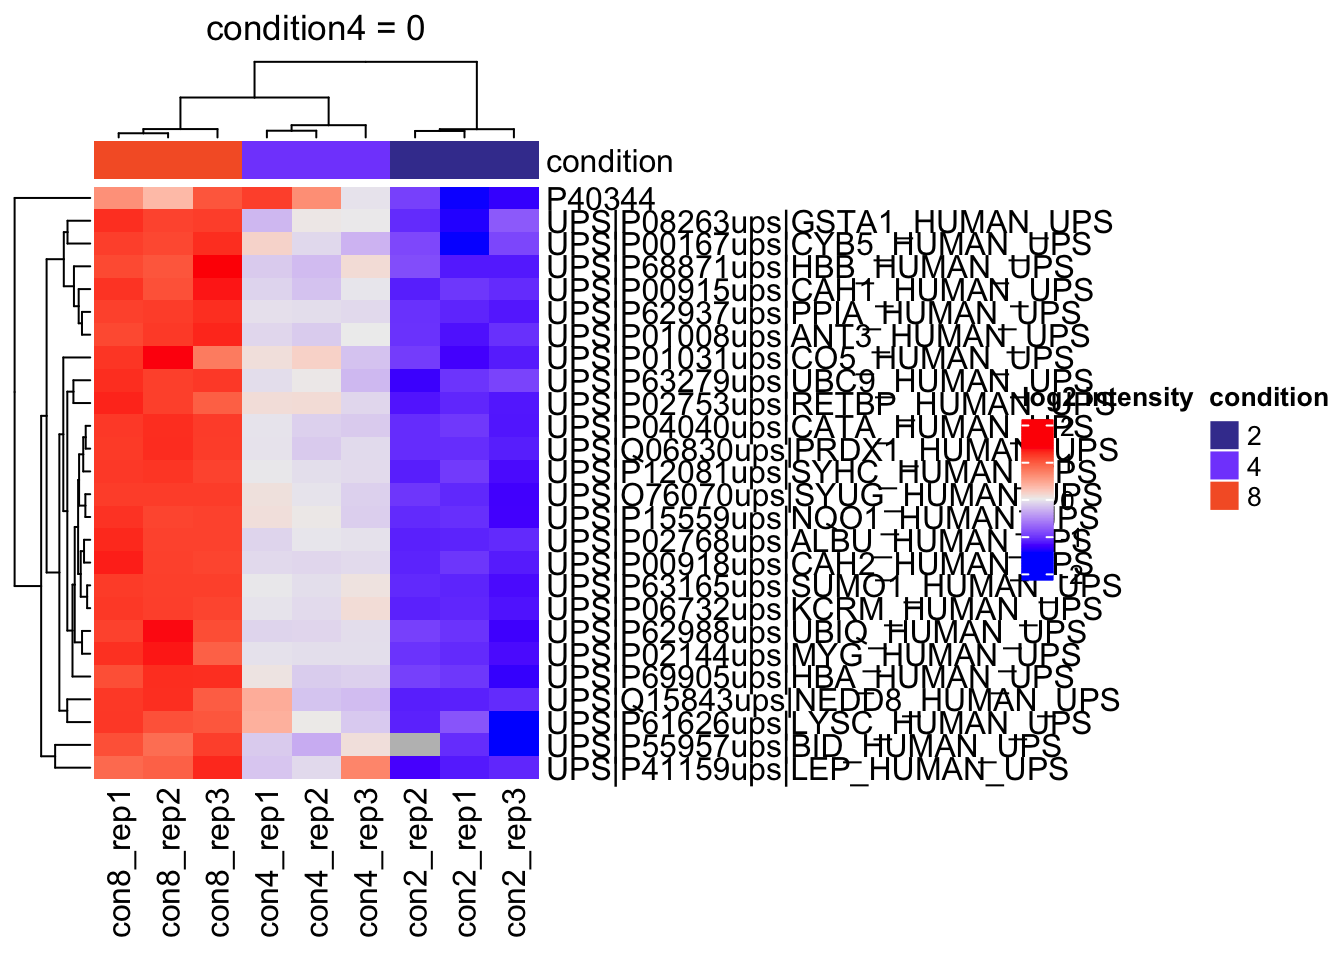
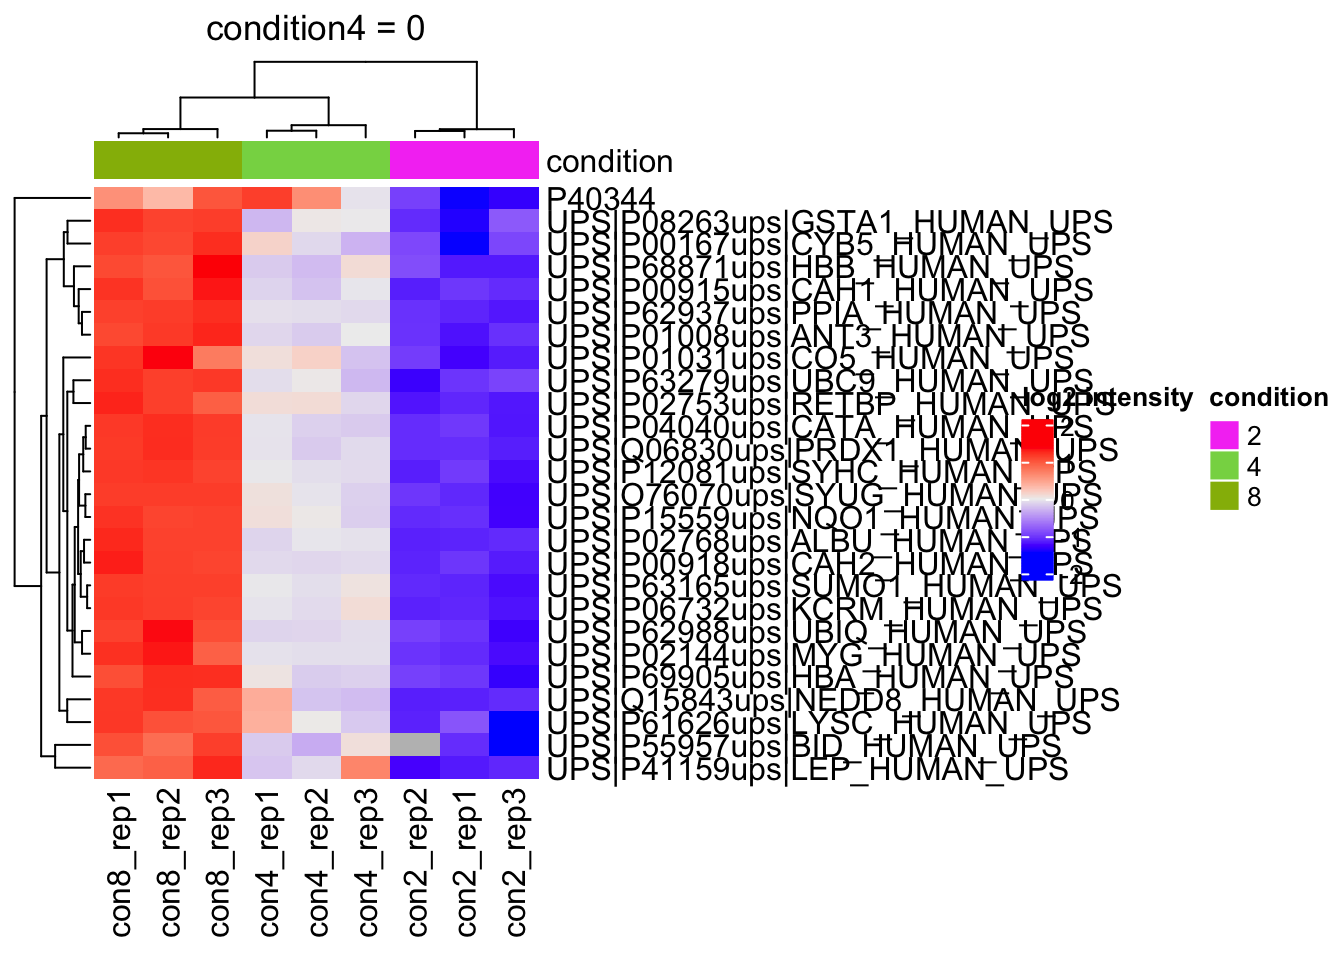
fix last figure in 01-basics

Changed region(s): [[0.0625, 0.125, 0.4062, 0.1875], [0.875, 0.4375, 0.9375, 0.5312]]

diff --git a/docs/01-dataprocessing.html b/docs/01-dataprocessing.html
@@ -4166,7 +4166,16 @@ Implementation details
 </div>
 <p></p>
 </details>
-<p>pTprFdp</p>
+<div class="cell">
+<div class="code-copy-outer-scaffold"><div class="sourceCode cell-code" id="cb119"><pre class="sourceCode r code-with-copy"><code class="sourceCode r"><span id="cb119-1"><a href="#cb119-1" aria-hidden="true" tabindex="-1"></a>pTprFdp</span></code></pre></div><button title="Copy to Clipboard" class="code-copy-button"><i class="bi"></i></button></div>
+<div class="cell-output-display">
+<div>
+<figure class="figure">
+<p><img src="01-dataprocessing_files/figure-html/unnamed-chunk-93-1.png" class="img-fluid figure-img" width="672"></p>
+</figure>
+</div>
+</div>
+</div>
 
 
 